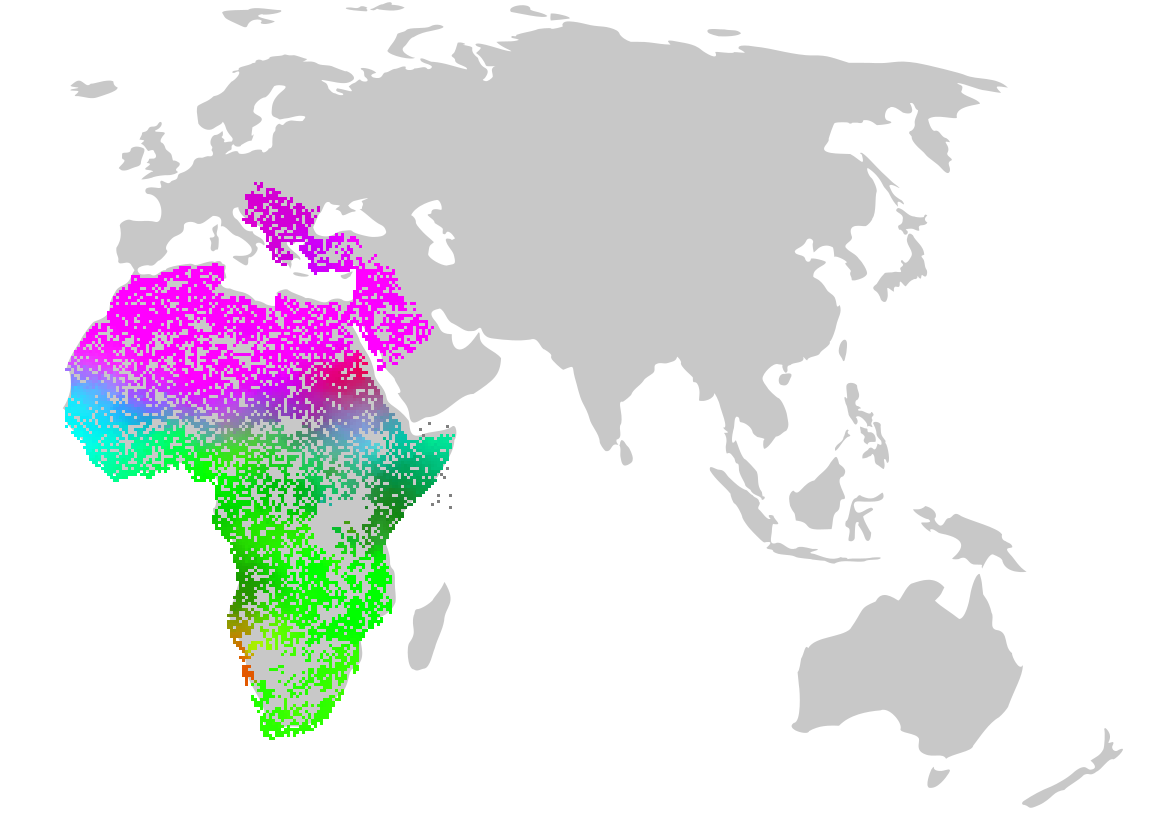
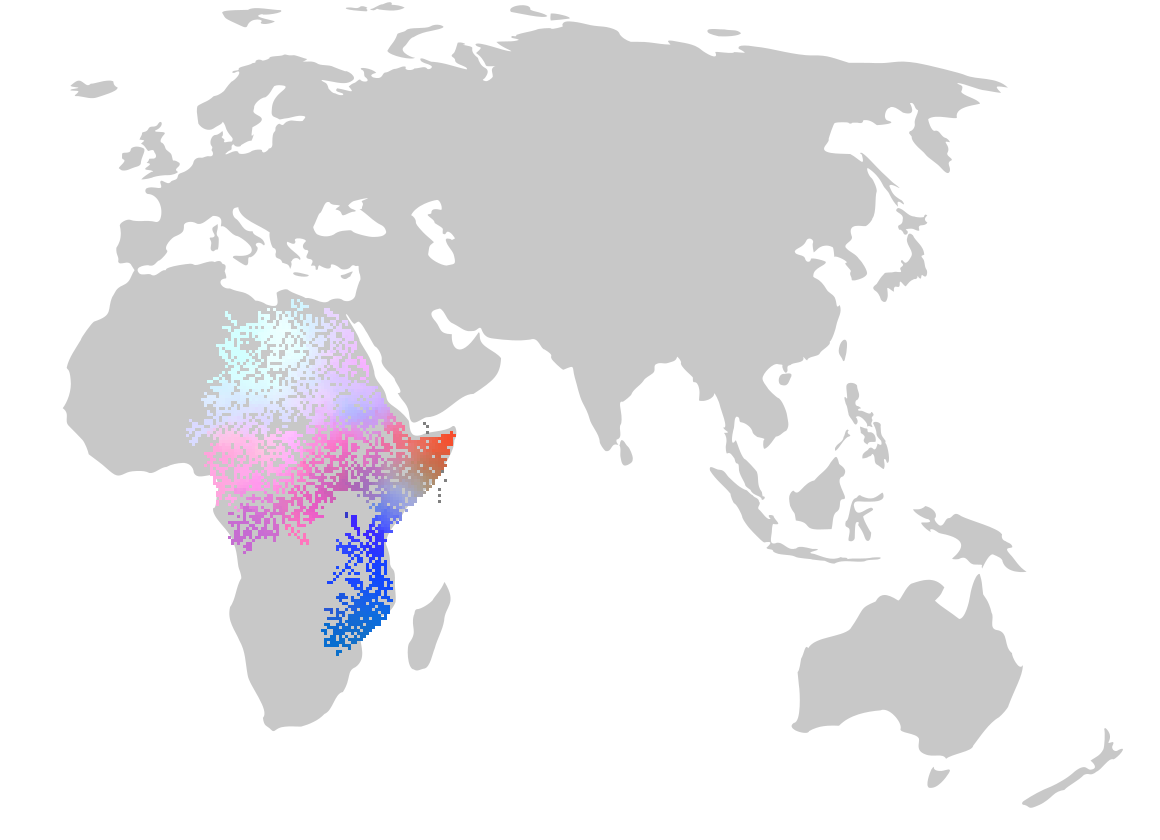
shifted result pixels

Changed region(s): [[0.031, 0.2167, 0.4034, 0.8976]]

diff --git a/driver.py b/driver.py
@@ -16,7 +16,7 @@ class Driver:
 
     def run(self):
         world = self.create_initial_world()
-        for _ in tqdm(range(800)):
+        for _ in tqdm(range(400)):
             world.step()
         self.generate_map(world.get_occupied_cells())
 
@@ -80,7 +80,7 @@ class Driver:
             color = tuple(cells[i][1].astype(int).tolist())
             for x in range(σ):
                 for y in range(σ):
-                    im.putpixel((int(pos[0] * σ + (x - 1)) + X_OFFSET, int(pos[1] * σ + (y - 1))), color)
+                    im.putpixel((int(pos[0] * σ + x) + X_OFFSET, int(pos[1] * σ + y - 1)), color)
         im.save(os.path.join(self.paths['results'], 'result.png'))
 
     def introduction(self):
@@ -89,7 +89,4 @@ class Driver:
         print("     +" + "-" * len(title) + "+")
         print("      " + title)
         print("     +" + "-" * len(title) + "+")
-        print() 
-
-
-
+        print()
